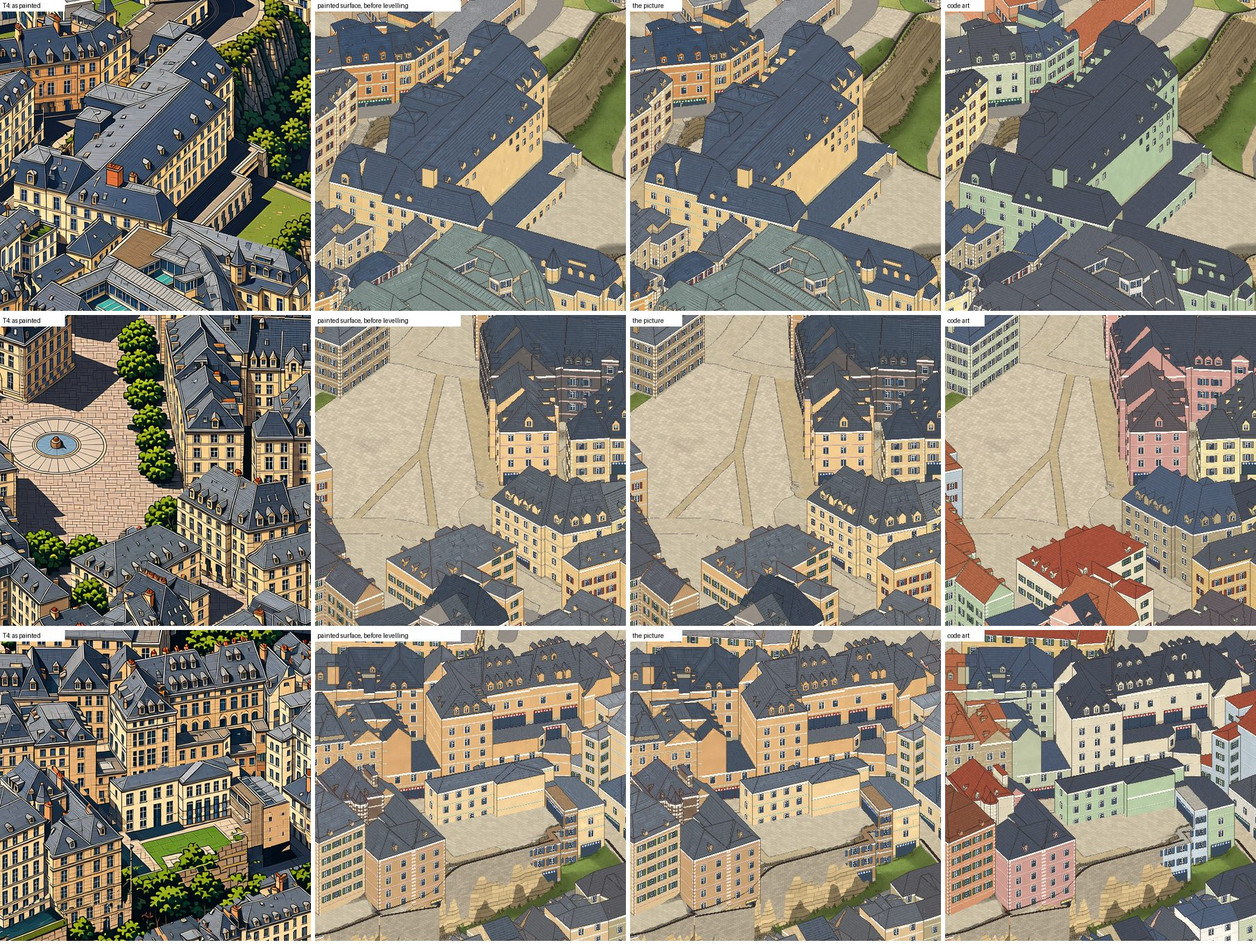
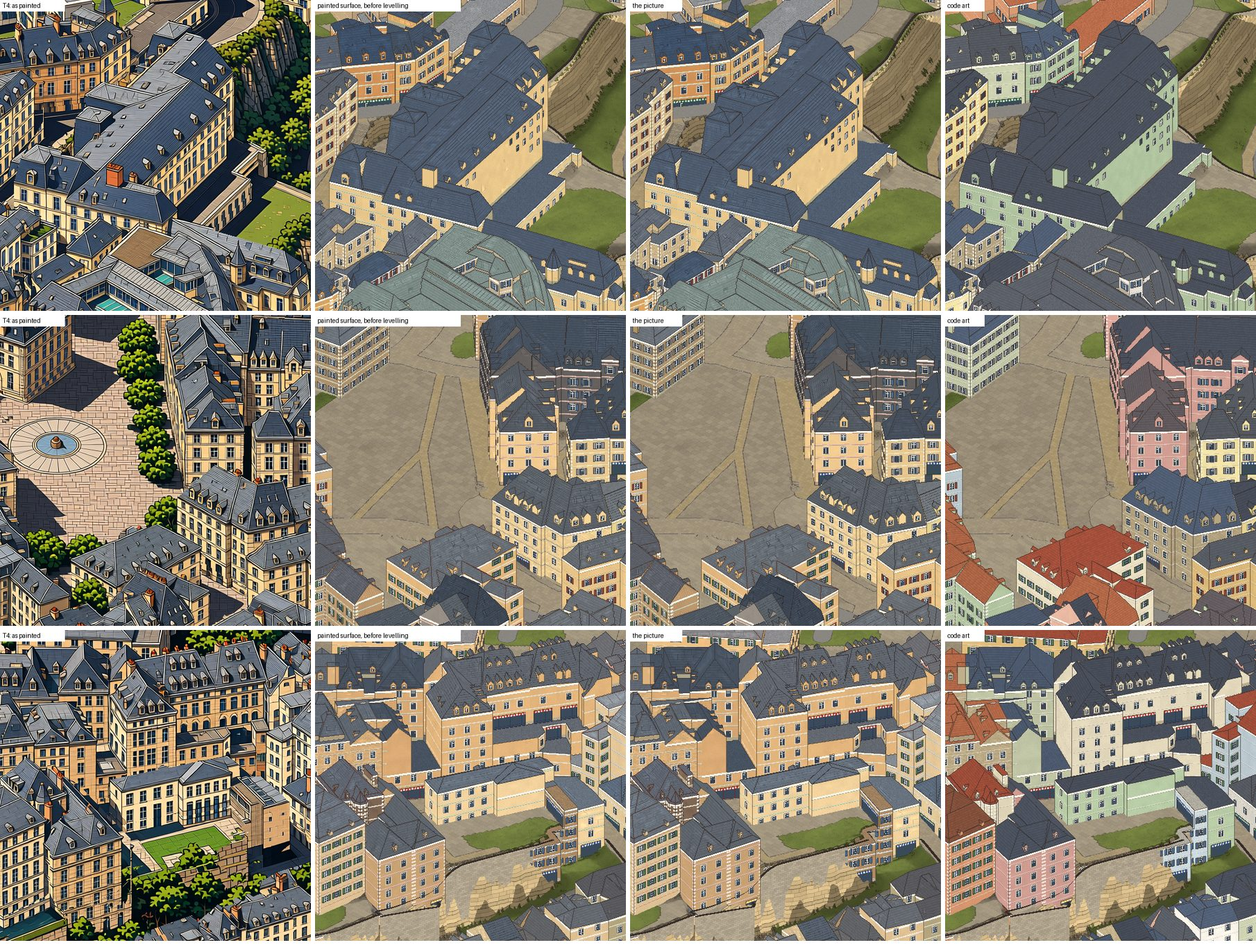
v2 report: v1's ground, step 1 of three

diff --git a/v2/docs/PHASE3_REPORT.md b/v2/docs/PHASE3_REPORT.md
@@ -2658,3 +2658,96 @@ v1's art, on one private page for the owner (not in the repository). The viewers
 60. **Which art for the city** (gate G2): the code art, or painted this way?
 61. **More of v1's contrast** (deeper darks, a wider run from dark to light): try it, or is the painted area
     alive enough now?
+
+## 28. v1's ground: step 1 of three (23 November, $0)
+
+Branch `v2-phase3-ground`. **Spent: $0.** No pod. Shown the painted area against v1's art, the owner said on 23
+November: "in the v1 I like the texture of the ground, asphalt and also the trees". Asked where to start, the
+owner chose "Ground, then asphalt, then trees (Recommended)", each step shown before the next, and "Merge
+(Recommended)" for PR #25 (merged as acaaeea, CI green).
+
+### 28.1 What was tried first, and did not work
+
+Lifting the ground, the roads and the trees out of the 101 paintings, as the buildings' surfaces are (two
+windows, in a scratch tool, nothing kept):
+
+- **Texture alone hardly shows.** The ground stays pale.
+- **Colour too goes wrong where the painting and the map disagree.** One meadow came out teal: the model had
+  painted water there (and a waterfall beside it).
+- **Trees came out flat lime green.**
+
+What it showed is that three different things make v1's ground and trees, and one of them is texture:
+what the ground is, its tone, and how it is drawn.
+
+### 28.2 What the ground is: lawns and gardens where OSM is silent
+
+- **The fault.** Land OSM does not class was drawn as paving inside the built-up area: 21% of the ground seen.
+  Gardens and planted slopes were bare beige.
+- **The rule** (`v2/data/scene/groundcover.py`, a new scene part; `v2/docs/specs/scene.md` "Ground cover";
+  layer-01 rule 1). The orthophoto classes the land on a 0.5 m grid and is never a colour, as layer 1's own
+  spec allowed for from the start. A cell is vegetated where the green share of the readable land within about
+  5 m is 35% or more; land under buildings, within 1.5 m of a surveyed crown or in deep shadow is not read and
+  takes its surroundings' answer. So a street tree does not turn its pavement into lawn, and a lawn keeps its
+  dry patches.
+- **The thresholds were set on the land OSM does class**, and three new data checks measure the same on every
+  build: GC1 the photo covers the area (100%); GC2 of OSM's squares, car parks and rail ground, 5.3% come out
+  vegetated (limit 15%); GC3 of OSM's gardens, 79.9% (limit 70%).
+- **A quarter of the unclassed land (25.6%) becomes lawn.**
+- **Limit: the photo is of a dry summer.** A straw-coloured lawn is not told from paving and stays paved: of
+  OSM's own lawns only 40% come out vegetated. A second photo from another season would be a new download;
+  not asked for.
+- **Limit: the photo on disk covers v1's extent**, not the whole commune. GC1 would fail where it does not.
+
+### 28.3 Its tone and its drawing
+
+Measured class by class, in the model's light and with no tree in front, on v1's art and on the T4 paintings,
+which agree with each other:
+
+| Class | v1 against v2's palette | Now |
+|---|---|---|
+| Paving, squares | 0.67 to 0.72 of its brightness, warmer | set to v1's tone |
+| Grass, pitch | 0.82 to 0.83, more olive | set between v2's green and v1's |
+| Meadow, garden, wood, scrub | 0.58 to 0.89 | darkened |
+| Roads | 0.95 to 1.05, warmer | not changed (step 2) |
+
+- The palette's ground colours, and the pedestrian, path and steps colours that lie in the same plane, were
+  changed (`v2/config/palette.json`, each with its source).
+- Paving flags are 2.2 m by 1.1 m (they were 1.5 by 0.75) and square setts 1.4 m, as v1 drew paving; lawns keep
+  their patches and lose half their flecks (`v2/layers/detail.py`).
+- **Chosen by measurement, then by eye.** The measured tone of unclassed "paving" was olive, because much of it
+  was vegetation; I set paving from the squares' tone instead.
+
+![Code art, before and now: Clausen, Grund, the old town](img/test_ground_before_now.jpg)
+![Close up: v1's art, the T4 painting, v2's code art before this step](img/test_ground_v1_closeups.jpg)
+
+### 28.4 The builds
+
+| | Ground cover | Ground cover and tones |
+|---|---|---|
+| Release | `6a8e21900358` | `66735929c193` (current) |
+| Stages | 59 of 59 (two new) | 59 of 59 |
+| Stage time, alone at low priority | 53.4 min | 49.7 min |
+| Gate entries | pass, 0 fail | 283 pass, 0 fail |
+
+- No threshold was changed. No shading on the ground: 0.8% between north and south slopes (limit 2%). No baked
+  light: 0 of 227, worst 4.0% on buildings, 1.8% on the ground.
+- Lines and speed as before: edges 96.3%, window rows 99.8%; 90 and 94 frames a second.
+- Tests: 4 new (168 in all, all pass).
+
+**The painted area on the new ground** (`targets --source T4`, `gates --source T4`): 101 pictures, even light 0
+fail; the build's line, shadow and vehicle checks pass (edges 96.5%, 0 of 227 at worst 4.3%, 0 vehicles); the
+detector on each whole picture now marks none of the 101 (it marked 3 in section 27.3).
+
+### 28.5 Not done
+
+- Asphalt (step 2) and trees (step 3). The close ups show the trees are the largest difference left: v1's are
+  bushy clumps with bright tops, dark undersides and heavy outlines, with no trunk showing; v2's are tall ovals
+  on trunks.
+- The dry lawns (section 28.2).
+- I looked at three views before and after; not at every part of the area.
+
+### 28.6 Open questions
+
+44, 46, 60 and 61 stand.
+
+62. **Is the ground right now**, and shall I go on to the asphalt?

diff --git a/research/v2/DECISIONS.md b/research/v2/DECISIONS.md
@@ -92,3 +92,4 @@ one is a decision for the owner, written here with its date.
 | The spire and the three churches are good enough for v2; PR #22 merged; the churches' wall colours; the quote for the whole test area (23 Nov) | Shown the copper spire and Saint-Michel, Saint-Jean du Grund and Sainte-Cunégonde with the windows their sources show (report section 24) and asked (1) whether they look right, (2) whether to merge PR #22 into `v2`, (3) whether to give the three churches their real wall colours and (4) whether the next step is the quote for painting the whole test area, the owner answered on 23 Nov 2026: "1- good enough for v2 2- yes 3- yes 4- yes". PR #22 was merged (501873a, CI green). The colours and the quote are report section 25. My reading of (4): the quote is the next step; the run itself still needs the owner's approval of that quote. |
 | Quote q0019 approved; PR #23 merged (23 Nov) | Shown the three churches in their wall colours, the whole test area's paint job run dry at $0 and its quote (report section 25), and asked (1) "Approve quote q0019: paint the whole test area (101 windows) on your RunPod account, expected $1.73, worst case $2.19 (hard 60-minute cap), leaving Phase 3 at least $2.82 of $8?" and (2) "Merge PR #23 into v2 (the three churches' wall colours and the paint job's tooling; CI is green, 57 of 57 build stages pass)?", the owner answered on 23 Nov 2026: "Approve q0019 (Recommended)" and "Merge (Recommended)". T4 ran once ($1.6946, report section 26); PR #23 was merged (2690bfd). |
 | The painted test area looks good; PR #24 merged; fix the two narrow failures; pictures side by side; v1's colours are more alive (23 Nov) | Shown the whole test area painted (report section 26) and asked (1) whether it is the look wanted, (2) whether to merge PR #24 into `v2`, (3) whether to list the two narrow check failures as exceptions or look for a fix in the method, and (4) which art the city gets, the owner answered on 23 Nov 2026: "1- looks good 2- do it 3- fix them 4- show pictures side by side". PR #24 was merged (31fe13e). Shown the pictures, the owner said: "the colors in v1 are more alive, can we do something about it?". Both failures were fixed by a cause and the colour reading changed (report section 27). Which art the city gets is still open. |
+| v1's ground, asphalt and trees: ground first; PR #25 merged (23 Nov) | Shown the painted area against v1's art, the owner said on 23 Nov 2026: "in the v1 I like the texture of the ground, asphalt and also the trees". Told that lifting them out of the paintings did not work on two trial windows and that three things make them (what the ground is, its tone, how it is drawn), and asked (1) where to start and (2) whether to merge PR #25, the owner answered: "Ground, then asphalt, then trees (Recommended)" and "Merge (Recommended)". PR #25 was merged (acaaeea). The ground is report section 28. |
